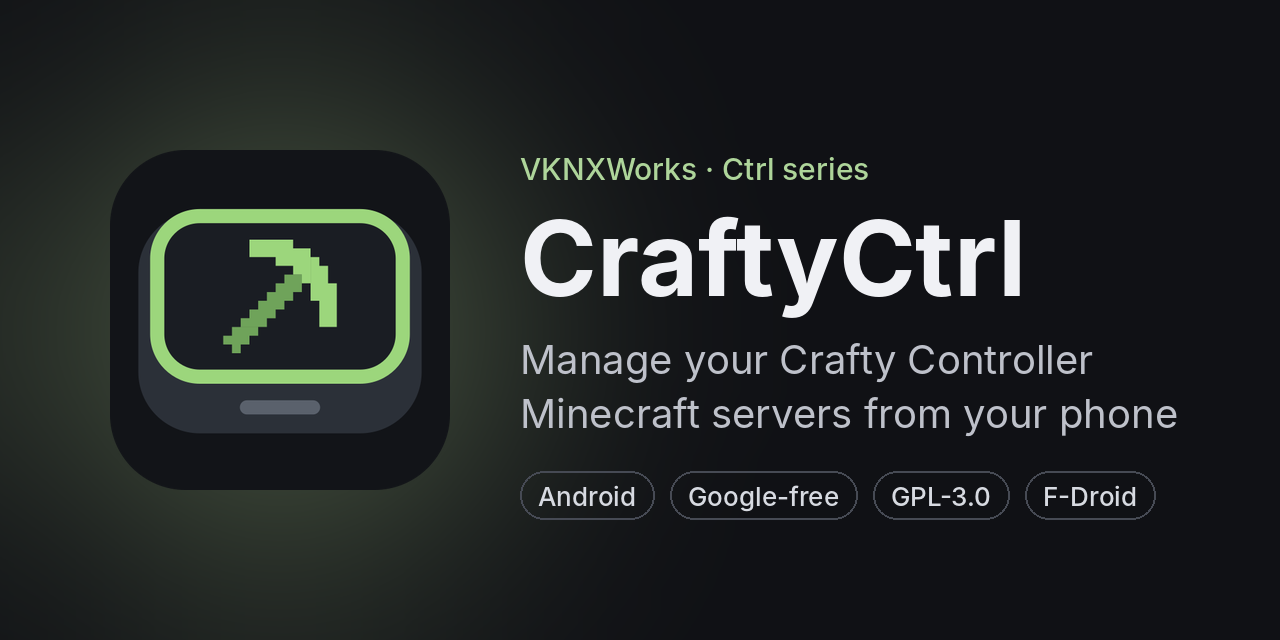
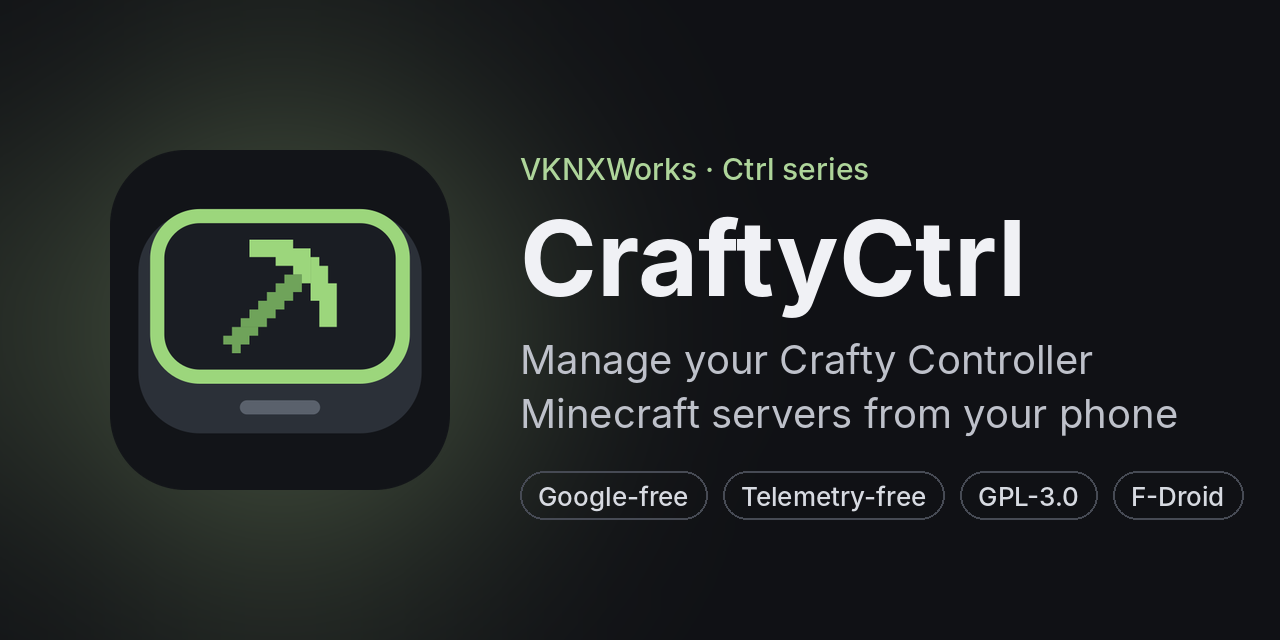
CraftyCtrl 2.4.12: telemetry-free, usage stats removed
- Remove the opt-in Aptabase usage stats: Telemetry.kt, the one-time
  question, the Settings section, every tracking call and screen-view event
- Delete the two stored stats settings on first start after the update
- Drop the APTABASE_KEY/APTABASE_HOST build config and the CI key check
- README: Telemetry-free badge and a Privacy section in place of Usage stats
- Link preview image with the Telemetry-free tag

Claude-Session: https://claude.ai/code/session_01EwhEpZ1DKRJef9Cqeiv5g2

Changed region(s): [[0.4062, 0.7188, 0.9688, 0.8125]]

diff --git a/app/src/main/java/com/vknxworks/craftyctrl/MainActivity.kt b/app/src/main/java/com/vknxworks/craftyctrl/MainActivity.kt
@@ -36,13 +36,12 @@ import androidx.navigation.compose.composable
 import androidx.navigation.compose.currentBackStackEntryAsState
 import androidx.navigation.compose.rememberNavController
 import androidx.navigation.navArgument
+import com.vknxworks.craftyctrl.data.AppSettings
 import com.vknxworks.craftyctrl.data.CraftyApi
 import com.vknxworks.craftyctrl.data.Session
-import com.vknxworks.craftyctrl.data.Telemetry
 import com.vknxworks.craftyctrl.monitor.MonitorService
 import com.vknxworks.craftyctrl.ui.ScreenPrivacy
 import com.vknxworks.craftyctrl.ui.SessionViewModel
-import com.vknxworks.craftyctrl.ui.UsageStatsPrompt
 import com.vknxworks.craftyctrl.ui.lock.AppLockViewModel
 import com.vknxworks.craftyctrl.ui.lock.LockScreen
 import com.vknxworks.craftyctrl.ui.screens.CreateServerScreen
@@ -68,9 +67,8 @@ class MainActivity : FragmentActivity() {
         setRecentsScreenshotEnabled(false)
         ThemePrefs.load(this)
         ScreenPrivacy.load(this)
-        // Reads the usage stats setting before anything can be tracked; sends nothing unless opted in.
-        Telemetry.init(this)
-        if (savedInstanceState == null) Telemetry.appOpened()
+        // Deletes what the anonymous stats (removed in 2.4.12) left in the settings, once after the update.
+        if (savedInstanceState == null) AppSettings(this).removeLeftoverStats()
         enableEdgeToEdge()
         setContent {
             // FLAG_SECURE follows the privacy setting, and is forced on by sign-in and the file editor.
@@ -160,8 +158,6 @@ private fun AppRoot(
                 )
             }
         }
-        // Asked once after sign-in, never on top of the lock screen.
-        if (!lockVm.locked) UsageStatsPrompt()
     }
 }
 
@@ -176,14 +172,6 @@ private fun AppContent(session: Session, sessionVm: SessionViewModel) {
             }
         }
         val nav = rememberNavController()
-
-        // Usage stats (only if the user opted in): the kind of screen, never the server, file or path it shows.
-        val backStack by nav.currentBackStackEntryAsState()
-        val entryId = backStack?.id
-        val screen = backStack?.let(::screenName)
-        LaunchedEffect(entryId) {
-            if (screen != null) Telemetry.track("screen_viewed", mapOf("screen" to screen))
-        }
 
         NavHost(
             navController = nav,
@@ -272,17 +260,6 @@ private fun AppContent(session: Session, sessionVm: SessionViewModel) {
             }
         }
     }
-}
-
-/**
- * "server/{id}?name={name}" -> "server". Only the route's fixed name: arguments (server IDs and names, file paths)
- * are dropped. Manage pages add their fixed page name from code, e.g. "manage_players".
- */
-private fun screenName(entry: NavBackStackEntry): String? {
-    val base = entry.destination.route?.substringBefore('/')?.substringBefore('?') ?: return null
-    if (base != "manage") return base
-    val page = entry.arguments?.getString("page")
-    return ManagePage.entries.firstOrNull { it.route == page }?.let { "manage_${it.route}" } ?: base
 }
 
 /**

diff --git a/app/src/main/java/com/vknxworks/craftyctrl/ui/ViewModels.kt b/app/src/main/java/com/vknxworks/craftyctrl/ui/ViewModels.kt
@@ -24,7 +24,6 @@ import com.vknxworks.craftyctrl.data.TaskAction
 import com.vknxworks.craftyctrl.data.ServerStats
 import com.vknxworks.craftyctrl.data.ServerSummary
 import com.vknxworks.craftyctrl.data.Session
-import com.vknxworks.craftyctrl.data.Telemetry
 import kotlinx.coroutines.CancellationException
 import kotlinx.serialization.json.JsonObject
 import kotlinx.serialization.json.contentOrNull
@@ -84,7 +83,6 @@ class SessionViewModel(app: Application) : AndroidViewModel(app) {
                 val s = Session(base, token, mode, username.trim().takeIf { mode == AuthMode.PASSWORD })
                 store.save(s)
                 session = s
-                Telemetry.track("signed_in", mapOf("method" to if (mode == AuthMode.PASSWORD) "password" else "api_key"))
             } catch (e: Exception) {
                 loginError = if (e is CraftyException && e.httpCode in listOf(401, 403) && mode == AuthMode.API_KEY) {
                     "Crafty rejected that API key."
@@ -658,7 +656,6 @@ class ServerDetailViewModel(private val api: CraftyApi, val serverId: String) : 
                     return@launch
                 }
                 api.action(serverId, action.apiName)
-                trackPower(action, countdown = false)
                 _messages.send("${action.label} sent")
                 delay(1500)
                 refreshStats()
@@ -718,7 +715,6 @@ class ServerDetailViewModel(private val api: CraftyApi, val serverId: String) : 
                     if (config?.id == null || e.httpCode !in listOf(400, 404, 405)) throw e
                     api.action(serverId, "backup_server")
                 }
-                Telemetry.track("backup_started", mapOf("kind" to if (config == null) "default" else "config"))
                 _messages.send("Backup started: ${config?.name ?: "default"}")
             } catch (e: Exception) {
                 _messages.send(e.userMessage())
@@ -816,19 +812,7 @@ class ServerDetailViewModel(private val api: CraftyApi, val serverId: String) : 
         Countdowns.start(api, serverId, action, seconds, note) { err ->
             viewModelScope.launch { _messages.send(err) }
         }
-        trackPower(action, countdown = true)
         viewModelScope.launch { _messages.send("Players warned: ${action.label.lowercase()} in ${Countdowns.human(seconds)}") }
-    }
-
-    /** Only which kind of power action was used, never which server. */
-    private fun trackPower(action: PowerAction, countdown: Boolean) {
-        val kind = when (action) {
-            PowerAction.START -> "start"
-            PowerAction.STOP -> "stop"
-            PowerAction.RESTART -> "restart"
-            PowerAction.KILL -> "kill"
-        }
-        Telemetry.track("server_power", mapOf("action" to kind, "countdown" to countdown.toString()))
     }
 
     fun cancelCountdown() {

diff --git a/app/src/main/java/com/vknxworks/craftyctrl/ui/screens/SettingsScreen.kt b/app/src/main/java/com/vknxworks/craftyctrl/ui/screens/SettingsScreen.kt
@@ -88,7 +88,6 @@ import com.vknxworks.craftyctrl.ui.lock.showBiometricPrompt
 import com.vknxworks.craftyctrl.ui.lock.resetBiometricKey
 import com.vknxworks.craftyctrl.ui.ScreenPrivacy
 import androidx.compose.material.icons.outlined.VisibilityOff
-import androidx.compose.material.icons.outlined.BarChart
 import androidx.compose.material.icons.filled.BugReport
 import androidx.compose.material.icons.filled.Code
 import androidx.compose.material.icons.filled.Favorite
@@ -99,8 +98,6 @@ import androidx.compose.material.icons.automirrored.filled.KeyboardArrowRight
 import androidx.compose.ui.platform.LocalUriHandler
 import androidx.compose.ui.res.stringResource
 import com.vknxworks.craftyctrl.R
-import com.vknxworks.craftyctrl.data.Telemetry
-import com.vknxworks.craftyctrl.ui.USAGE_STATS_DESCRIPTION
 
 private enum class PinDialog { NEW, CHANGE, DISABLE }
 
@@ -228,25 +225,6 @@ fun SettingsScreen(onBack: () -> Unit) {
                         "Sign-in, the file editor and server settings are always hidden.",
                     checked = ScreenPrivacy.hideContent,
                     onChange = { ScreenPrivacy.saveHideContent(context, it) },
-                )
-            }
-
-            if (Telemetry.available) {
-                SectionLabel("Usage stats")
-                SettingsCard {
-                    SwitchRow(
-                        title = "Share anonymous usage stats",
-                        icon = Icons.Outlined.BarChart,
-                        body = "Helps decide what to improve next",
-                        checked = Telemetry.optedIn,
-                        onChange = { Telemetry.setOptedIn(context, it) },
-                    )
-                }
-                Text(
-                    USAGE_STATS_DESCRIPTION,
-                    style = MaterialTheme.typography.bodySmall,
-                    color = MaterialTheme.colorScheme.onSurfaceVariant,
-                    modifier = Modifier.padding(horizontal = 4.dp),
                 )
             }
 

diff --git a/app/src/main/java/com/vknxworks/craftyctrl/data/AppSettings.kt b/app/src/main/java/com/vknxworks/craftyctrl/data/AppSettings.kt
@@ -139,17 +139,15 @@ class AppSettings(context: Context) {
         get() = prefs.getBoolean(KEY_ALERT_AWAKE, false)
         set(v) = prefs.edit().putBoolean(KEY_ALERT_AWAKE, v).apply()
 
-    // ------------------------------------------------------------ usage stats
-
-    /** Opt-in anonymous usage stats (off until the user says yes). */
-    var usageStats: Boolean
-        get() = prefs.getBoolean(KEY_USAGE_STATS, false)
-        set(v) = prefs.edit().putBoolean(KEY_USAGE_STATS, v).apply()
-
-    /** Whether the one-time usage stats question has been answered. */
-    var usageStatsAsked: Boolean
-        get() = prefs.getBoolean(KEY_USAGE_STATS_ASKED, false)
-        set(v) = prefs.edit().putBoolean(KEY_USAGE_STATS_ASKED, v).apply()
+    /**
+     * CraftyCtrl 2.4.12 removed the optional anonymous stats. Deletes the two settings they used (their keys
+     * start with "usage_"), so nothing from them stays on the phone. Does nothing once they're gone.
+     */
+    fun removeLeftoverStats() {
+        val leftover = prefs.all.keys.filter { it.startsWith("usage_") }
+        if (leftover.isEmpty()) return
+        prefs.edit().apply { leftover.forEach { remove(it) } }.apply()
+    }
 
     private fun hash(pin: String, salt: ByteArray): ByteArray {
         val spec = PBEKeySpec(pin.toCharArray(), salt, 60_000, 256)
@@ -176,7 +174,5 @@ class AppSettings(context: Context) {
         const val KEY_ALERT_SHUTDOWN = "alert_shutdown"
         const val KEY_ALERT_INTERVAL = "alert_interval"
         const val KEY_ALERT_AWAKE = "alert_keep_awake"
-        const val KEY_USAGE_STATS = "usage_stats"
-        const val KEY_USAGE_STATS_ASKED = "usage_stats_asked"
     }
 }

diff --git a/app/src/main/java/com/vknxworks/craftyctrl/ui/screens/ServerDetailScreen.kt b/app/src/main/java/com/vknxworks/craftyctrl/ui/screens/ServerDetailScreen.kt
@@ -802,8 +802,6 @@ internal fun isWarn(line: String) = "WARN" in line
 @OptIn(androidx.compose.foundation.ExperimentalFoundationApi::class)
 @Composable
 private fun ConsoleTab(vm: ServerDetailViewModel) {
-    // Usage stats (only if opted in): that the console was opened, never which server or what it shows.
-    LaunchedEffect(Unit) { com.vknxworks.craftyctrl.data.Telemetry.track("console_opened") }
     val consoleMs = rememberRefreshMs().coerceAtMost(2_000)
     PollWhileVisible("console-${vm.serverId}" to consoleMs, consoleMs) { vm.refreshLogs() }
 

diff --git a/README.md b/README.md
@@ -2,7 +2,7 @@
 
 **Manage your Minecraft servers on Crafty Controller from your phone.**
 
-[![Latest release](https://img.shields.io/github/v/release/VoidedKN0X/CraftyCtrl?label=download)](https://github.com/VoidedKN0X/CraftyCtrl/releases/latest) ![Android 13+](https://img.shields.io/badge/Android-13%2B-3DDC84?logo=android&logoColor=white) [![License: GPL-3.0](https://img.shields.io/badge/license-GPL--3.0-blue)](LICENSE) [![Sponsor](https://img.shields.io/badge/sponsor-GitHub-ea4aaa?logo=githubsponsors&logoColor=white)](https://github.com/sponsors/VoidedKN0X)
+[![Latest release](https://img.shields.io/github/v/release/VoidedKN0X/CraftyCtrl?label=download)](https://github.com/VoidedKN0X/CraftyCtrl/releases/latest) ![Android 13+](https://img.shields.io/badge/Android-13%2B-3DDC84?logo=android&logoColor=white) [![License: GPL-3.0](https://img.shields.io/badge/license-GPL--3.0-blue)](LICENSE) ![Telemetry-free](https://img.shields.io/badge/telemetry-none-brightgreen) [![Sponsor](https://img.shields.io/badge/sponsor-GitHub-ea4aaa?logo=githubsponsors&logoColor=white)](https://github.com/sponsors/VoidedKN0X)
 
 CraftyCtrl is an Android app for [Crafty Controller 4](https://craftycontrol.com), the self-hosted Minecraft server panel. Start, stop and watch your servers, use the console and manage backups without opening a browser.
 
@@ -58,21 +58,14 @@ If the Obtainium button doesn't open the app, add `https://github.com/VoidedKN0X
 2. Sign in with an **API key** (in Crafty: your profile → *API Keys* → *Generate*) or your **username and password**, plus your 2FA code if you use one.
 3. Tap **Connect**. Your login is stored encrypted on the phone; with a password, only the token Crafty sends back is kept, never the password itself.
 
-## Usage stats
+## Privacy
 
-CraftyCtrl can share anonymous usage stats, **only if you say yes**. It asks once after you sign in, and you can change it any time in **Settings → Usage stats**.
-
-- **Shared:** which screens you open (the kind of screen, never which server or file), whether you start, stop, restart or kill a server (and whether you used a countdown), opening the console, starting a backup (the default one or a backup config), whether you sign in with an API key or a password, the app version, Android version, phone model, language, phone or tablet, and your theme setting.
-- **Never shared:** your panel address, username, password or API key, server or player names, console output or commands, file names, or any ID that stays the same between sessions.
-- **Where:** VKNXWorks' own self-hosted [Aptabase](https://aptabase.com) server. Nothing goes to Google or analytics companies. Like any website, the server sees your IP address; Aptabase uses it only to work out the country and doesn't store it.
-- **Switching stats off** stops them straight away and throws away anything not yet sent.
-
-**Other connections.** Apart from your Crafty panel (and the stats above, only if you said yes), CraftyCtrl only goes online for two things you start yourself, and neither sends your panel address or login:
+**Telemetry-free.** CraftyCtrl has no analytics, crash reporting, usage stats or tracking of any kind. It only talks to the Crafty panel you sign in to, plus two lookups you start yourself, and neither of those sends your panel address or login:
 
 - Adding someone to the whitelist, operators or bans of an online-mode Java server looks the player name up at Mojang (`api.mojang.com`) to get the account's ID, as Minecraft itself does.
 - The **Create server** screen loads the list of available server versions from Crafty's download catalog (`jars.arcadiatech.org`).
 
-Builds from source don't include the stats key, so they can't send anything and the setting is hidden. The code is in [`Telemetry.kt`](app/src/main/java/com/vknxworks/craftyctrl/data/Telemetry.kt).
+The Support, Report a bug, Source code and Licence links in Settings, and the Minecraft EULA link, open in your browser only when you tap them.
 
 ## Build from source
 

diff --git a/CHANGELOG.md b/CHANGELOG.md
@@ -3,11 +3,13 @@
 Each version below becomes a GitHub release. To publish a new one: bump `versionCode` and
 `versionName` in `app/build.gradle.kts`, add a matching `## [x.y.z]` section here, and push to `main`.
 
-## Unreleased
+## [2.4.12] - 2026-10-20
+
+### Privacy
+- **No more usage stats: CraftyCtrl is now telemetry-free.** The optional anonymous usage stats are gone completely, along with the Usage stats setting and the one-time question after sign-in. The app no longer contacts VKNXWorks' stats server at all, and the settings it used are deleted from your phone when you update. CraftyCtrl now only talks to your Crafty panel, plus the Mojang player lookup and Crafty's server version catalog when you use those features.
 
 ### Changed
-
-- **README**: a Screenshots section (screenshots are coming soon), and a link preview image (`.github/assets/social-preview.png`) with CraftyCtrl's icon, name and summary, for when the repo is shared on Reddit, Discord or elsewhere
+- **README**: a Screenshots section (screenshots are coming soon), and a link preview image (`.github/assets/social-preview.png`) with CraftyCtrl's icon, name and summary, for when the repo is shared on Reddit, Discord or elsewhere. It also gets a "Telemetry-free" badge and tag, and a Privacy section listing exactly what CraftyCtrl connects to, in place of the old Usage stats section.
 
 ## [2.4.11] - 2026-10-19
 
